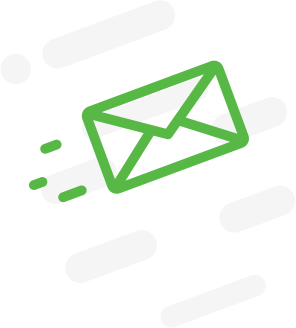
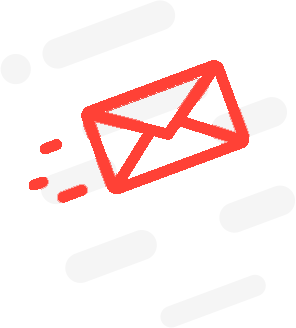
Changed Contact Color

diff --git a/contact.css b/contact.css
@@ -279,7 +279,7 @@ footer {
     min-width: 193px;
     height: 50px;
     border-radius: 25px;
-    background: #57b846;
+    background: #FF4136;
     font-family: Montserrat-Bold;
     font-size: 15px;
     line-height: 1.5;
@@ -386,7 +386,7 @@ footer {
     pointer-events: none;
   
     font-family: Montserrat-Medium;
-    color: #c80000;
+    color: #FF4136;
     font-size: 13px;
     line-height: 1.4;
     text-align: left;
@@ -405,7 +405,7 @@ footer {
     font-family: FontAwesome;
     display: block;
     position: absolute;
-    color: #c80000;
+    color: #FF4136;
     font-size: 15px;
     top: 50%;
     -webkit-transform: translateY(-50%);
